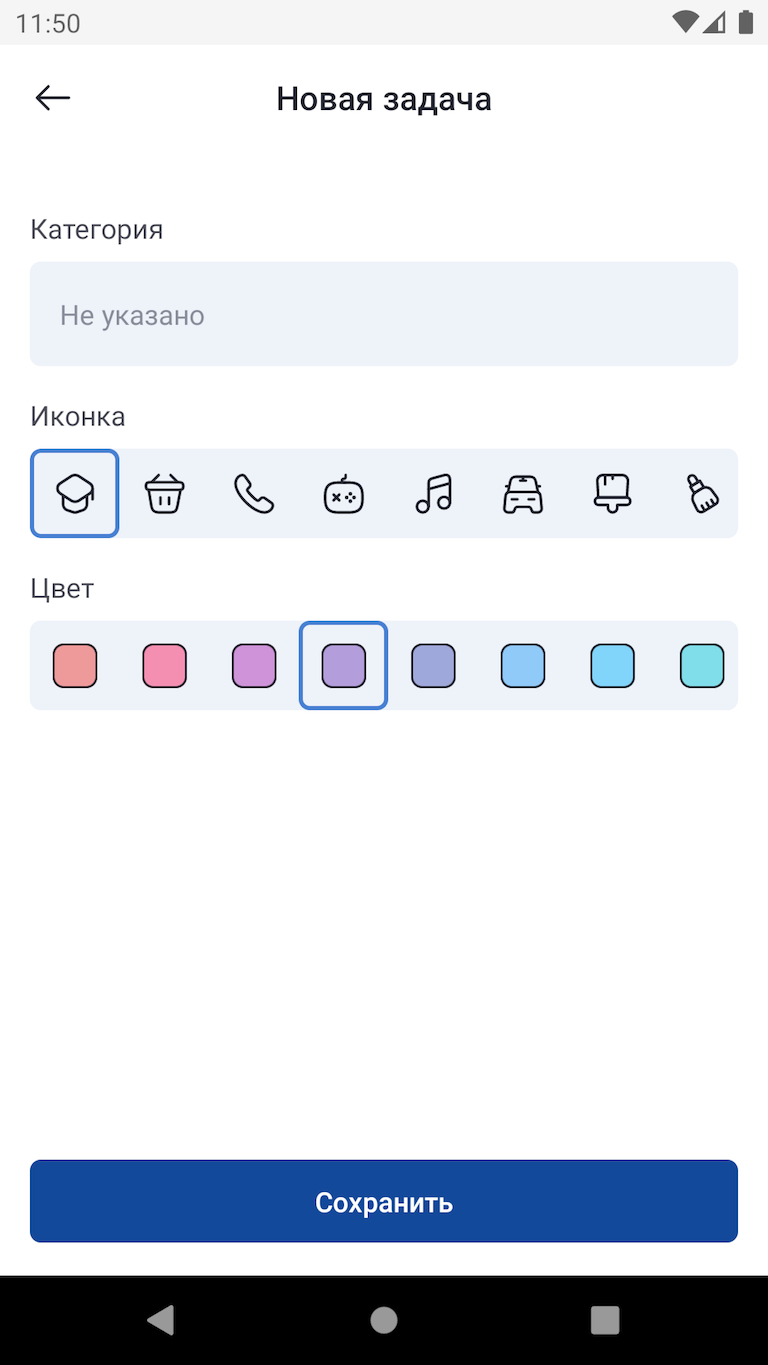
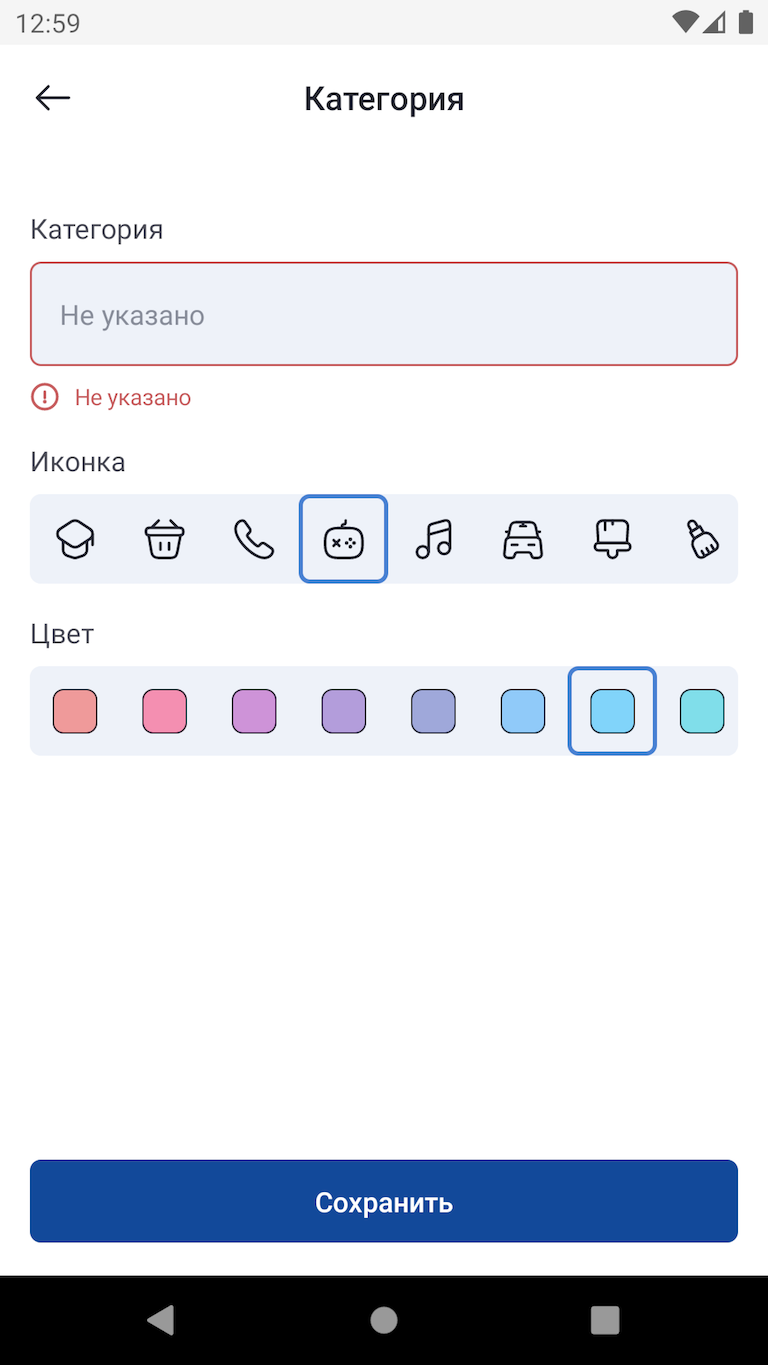
fixed screen title

diff --git a/app/src/main/java/com/dmdev/tasktracker/ui/category_edit/CategoryEditScreen.kt b/app/src/main/java/com/dmdev/tasktracker/ui/category_edit/CategoryEditScreen.kt
@@ -42,7 +42,7 @@ fun CategoryEditScreen(
 
     Surface {
         Column {
-            ToolbarTextWithBack(title = stringResource(id = R.string.new_task)) {
+            ToolbarTextWithBack(title = stringResource(id = R.string.text_category)) {
                 navState.navigateBack()
             }
             when (val state = viewState.value) {
